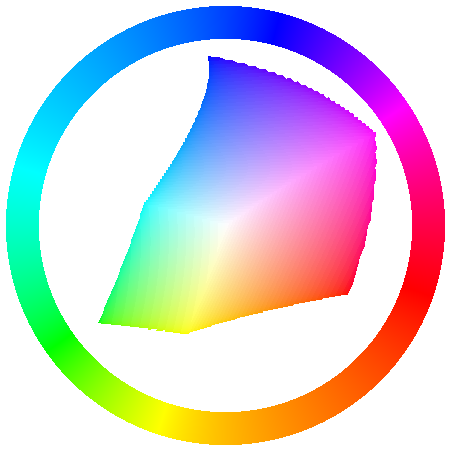
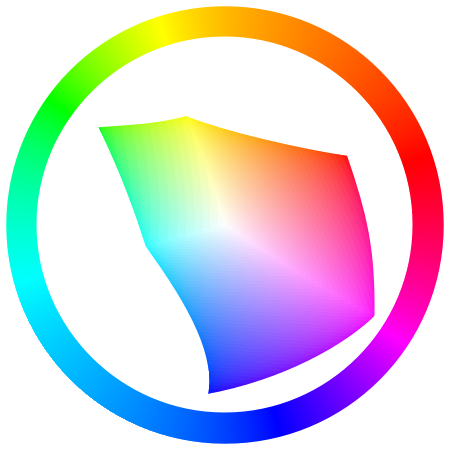
fix: перевернет ось Y на цветовом круге, чтобы было как везде (было развернуто, потому что для svg ось Y по умолчанию вниз)

diff --git a/src/generatorFromWheelPage/ArcShortest.vue b/src/generatorFromWheelPage/ArcShortest.vue
@@ -18,11 +18,11 @@ const arcPath = computed(() => {
     const [x2, y2] = cartesianFromPolar(radius, props.end);
 
     const diffCW = (props.end - props.start + 360) % 360;
-    const sweepFlag = diffCW <= 180 ? 1 : 0;
+    const sweepFlag = diffCW <= 180 ? 0 : 1;
 
     const largeArcFlag = 0;
 
-    return `M ${x1 + cx} ${y1 + cy} A ${radius} ${radius} 0 ${largeArcFlag} ${sweepFlag} ${x2 + cx} ${y2 + cy}`;
+    return `M ${x1 + cx} ${-y1 + cy} A ${radius} ${radius} 0 ${largeArcFlag} ${sweepFlag} ${x2 + cx} ${-y2 + cy}`;
 });
 </script>
 

diff --git a/src/generatorFromWheelPage/CircleInput.vue b/src/generatorFromWheelPage/CircleInput.vue
@@ -15,12 +15,12 @@ export class circleObject {
 
     calculateCoords() {
         this.cx = (this.color.x * WHEEL_SVG_WIDTH * SCALE) / 100 + WHEEL_SVG_WIDTH / 2;
-        this.cy = (this.color.y * WHEEL_SVG_WIDTH * SCALE) / 100 + WHEEL_SVG_WIDTH / 2;
+        this.cy = (-this.color.y * WHEEL_SVG_WIDTH * SCALE) / 100 + WHEEL_SVG_WIDTH / 2;
     }
 
     calculateColorCoords() {
         this.color.x = ((this.cx - WHEEL_SVG_WIDTH / 2) * 100) / WHEEL_SVG_WIDTH / SCALE;
-        this.color.y = ((this.cy - WHEEL_SVG_WIDTH / 2) * 100) / WHEEL_SVG_WIDTH / SCALE;
+        this.color.y = -((this.cy - WHEEL_SVG_WIDTH / 2) * 100) / WHEEL_SVG_WIDTH / SCALE;
     }
 }
 